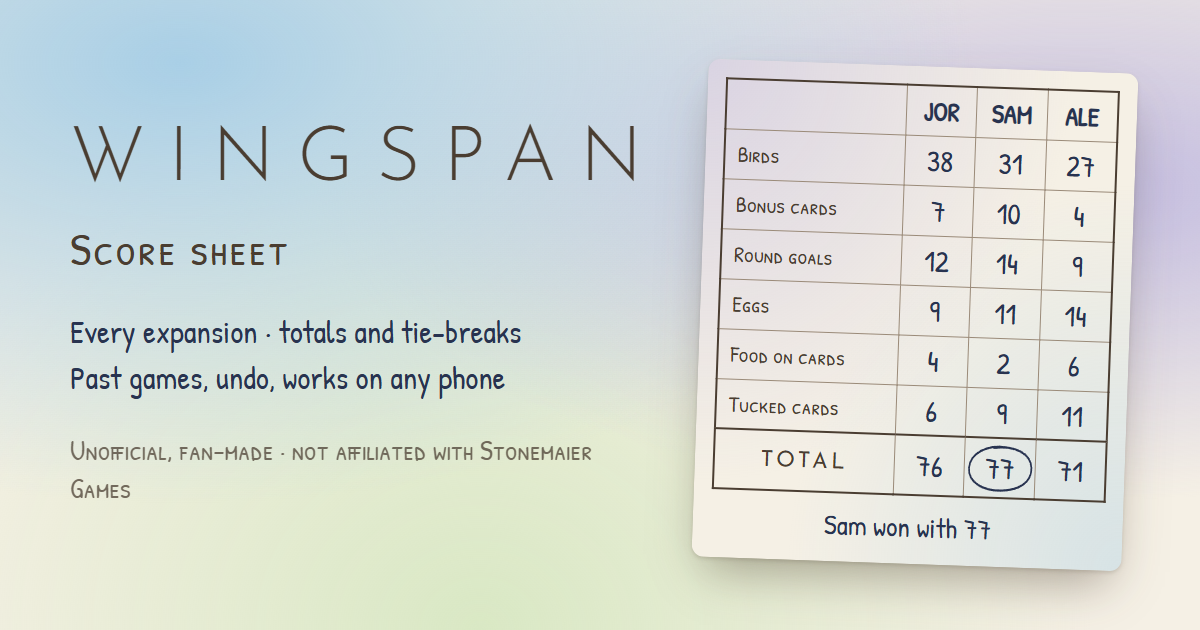
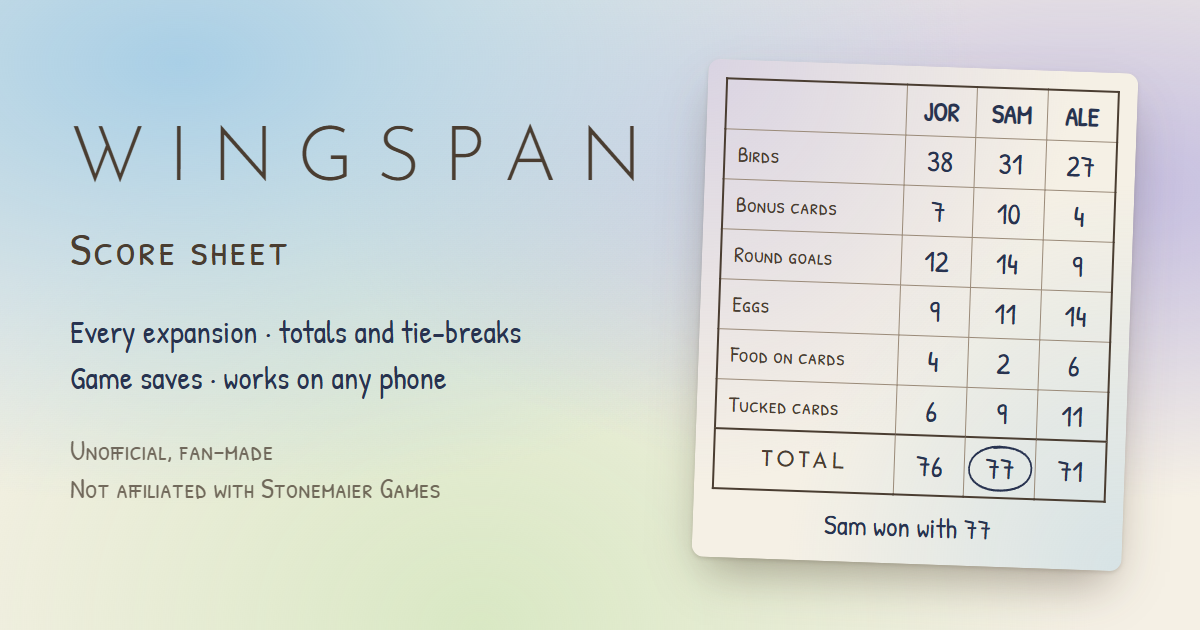
Link preview: 'game saves' instead of 'past games and undo'
Simpler wording in the description and on the image; the image's
disclaimer breaks onto two lines at its natural point.

Claude-Session: https://claude.ai/code/session_014EkXDKsohNgTvvpNP4JB8q

Changed region(s): [[0.0617, 0.573, 0.4317, 0.6333], [0.0617, 0.754, 0.37, 0.8143], [0.2467, 0.6937, 0.4933, 0.754]]

diff --git a/app/layout.tsx b/app/layout.tsx
@@ -26,7 +26,7 @@ export const viewport: Viewport = {
 
 const title = "Wingspan Score Sheet";
 const description =
-  "A fan-made score sheet for Wingspan: every expansion, automatic totals and tie-breaks, past games and undo. Unofficial; not affiliated with Stonemaier Games.";
+  "A fan-made score sheet for Wingspan: every expansion, automatic totals and tie-breaks, and game saves. Unofficial; not affiliated with Stonemaier Games.";
 
 // Link previews (LinkedIn, messaging apps, X). The image comes from
 // app/opengraph-image.png and app/twitter-image.png.

diff --git a/design/share-image.html b/design/share-image.html
@@ -62,8 +62,8 @@
   <div class="text">
     <div class="wordmark">WINGSPAN</div>
     <div class="sub">Score sheet</div>
-    <div class="points">Every expansion · totals and tie-breaks<br>Past games, undo, works on any phone</div>
-    <div class="fan">Unofficial, fan-made · not affiliated with Stonemaier Games</div>
+    <div class="points">Every expansion · totals and tie-breaks<br>Game saves · works on any phone</div>
+    <div class="fan">Unofficial, fan-made<br>Not affiliated with Stonemaier Games</div>
   </div>
   <div class="card">
     <table>
